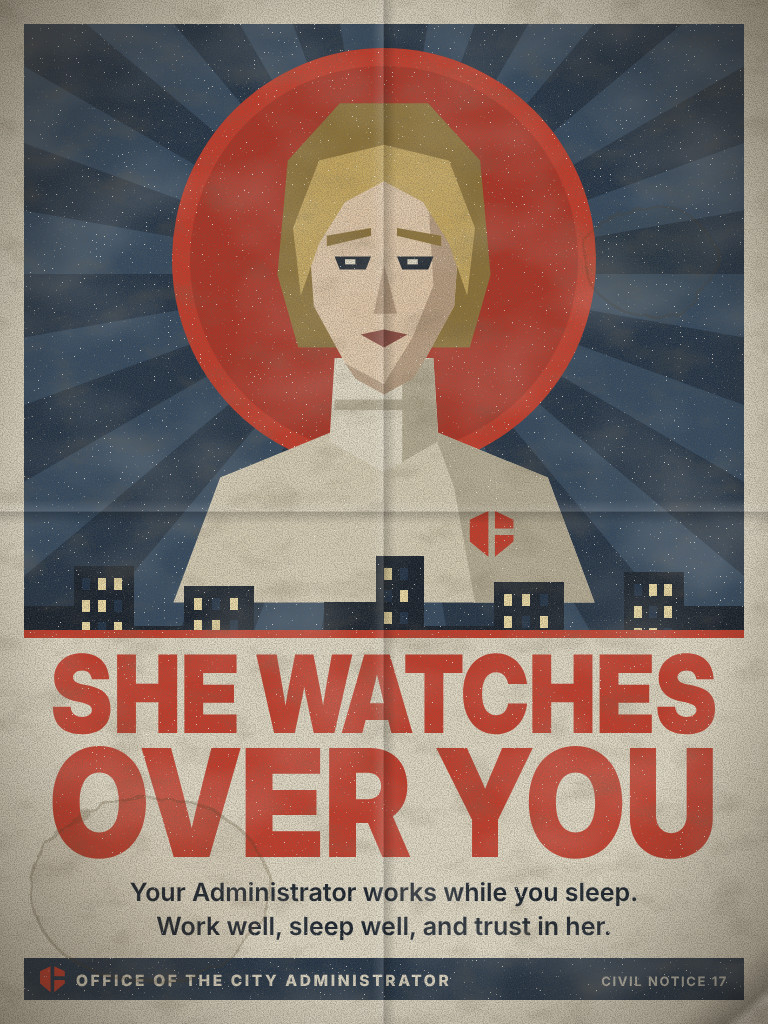
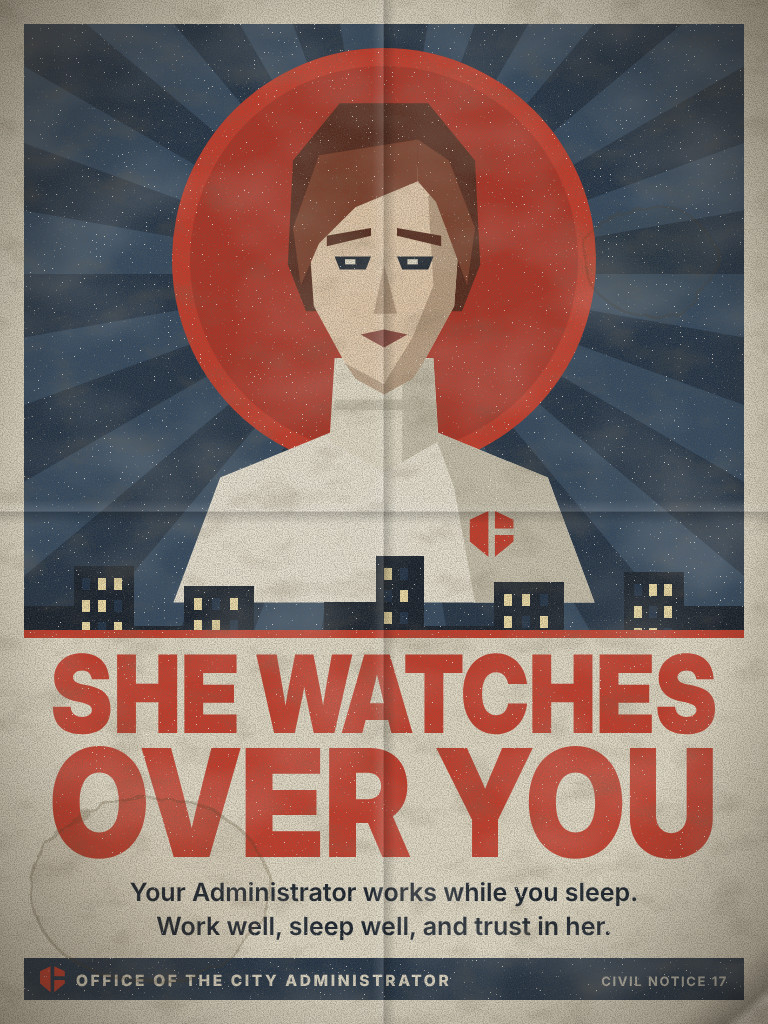
The Administrator on the posters: short auburn hair, white roll-neck
Redrawn from the owner's reference picture of Mossman, on the 'She watches
over you' poster and in the Commissary poster's portrait.

Claude-Session: https://claude.ai/code/session_01Y8SXQm2oyK1qYNFAgYMNJb

Changed region(s): [[0.3438, 0.0938, 0.6562, 0.3438], [0.25, 0.4062, 0.625, 0.5938]]

diff --git a/_dev/posters/lib.js b/_dev/posters/lib.js
@@ -132,17 +132,17 @@ function reader(tx, ty, s, tone, hat) {
   return G(`translate(${tx},${ty}) scale(${s})`, g);
 }
 
-// The City Administrator (after Judith Mossman as the owner's server shows her: blond hair
-// parted and pulled back, a light roll-neck sweater), front view, in a 170 x 214 box.
+// The City Administrator (after Judith Mossman as the owner's server shows her: short auburn hair
+// with a side part, tucked back, and a white roll-neck sweater), front view, in a 170 x 214 box.
 function adminBust(o = {}) {
-  const skin = '#dfc6a8', sh = '#b59a7e', hair = '#c4a65e', hairD = '#8c7238', knit = '#d3cab2', knitD = '#b3aa92', lip = o.lip || '#8a4a40';
+  const skin = '#dfc6a8', sh = '#b59a7e', hair = '#7b3f2b', hairD = '#552a1d', knit = '#e4dece', knitD = '#c3bca8', lip = o.lip || '#8a4a40';
   return [
-    P('M44,88 L48,44 L68,22 L102,22 L122,44 L126,88 L118,116 L52,116Z', hairD),
+    P('M48,84 L50,44 L68,22 L102,22 L120,44 L122,84 L115,102 L55,102Z', hairD),
     P('M4,214 L22,166 L66,148 L104,148 L148,166 L166,214Z', knit), P('M104,148 L148,166 L166,214 L120,214 L112,170Z', knitD),
     P('M66,120 L64,152 L85,164 L106,152 L104,120Z', C.paper), P('M66,136 L104,136 L104,140 L66,140Z', knitD), P('M92,122 L104,120 L106,152 L92,160Z', knitD),
     P('M56,72 L62,50 L85,42 L108,50 L114,72 L112,100 L100,122 L85,130 L70,122 L58,100Z', skin),
     P('M102,58 L108,50 L114,72 L112,100 L100,122 L85,130 L96,112 L104,92Z', sh),
-    P('M85,38 L60,44 L50,70 L53,96 L60,76 L70,60 L85,52Z', hair), P('M85,38 L110,44 L120,70 L117,96 L110,76 L100,60 L85,52Z', hair),
+    P('M98,36 L60,42 L50,70 L53,92 L60,76 L74,62 L98,52Z', hair), P('M98,36 L110,44 L120,70 L117,92 L111,76 L105,60 L98,52Z', hair),
     P('M63,73 L80,70 L80,73 L63,77Z', hairD), P('M90,70 L107,73 L107,77 L90,73Z', hairD),
     P('M66,81 L80,81 L78,86 L68,86Z', C.ink), P('M90,81 L104,81 L102,86 L92,86Z', C.ink),
     P('M70,82 L74,82 L74,84 L70,84Z', C.paper), P('M94,82 L98,82 L98,84 L94,84Z', C.paper),

diff --git a/POSTER_BRIEF.md b/POSTER_BRIEF.md
@@ -83,4 +83,4 @@ Six propaganda posters for Living City, a Half-Life 2 roleplay server. They hang
 
 ## Eleven more, hung by hand
 
-The Director of Propaganda hangs these with the poster roll (they never appear by themselves). Same style, same footer. File names: `work`, `loyalty`, `informants`, `contraband`, `radio`, `illness`, `infestation`, `housing`, `vortigaunt`, `recruit`, `administrator` (`.png` or `.jpg`). The Administrator is drawn after Judith Mossman: blond hair parted and pulled back, a light roll-neck sweater. Their words are in `gamemodes/livingcity/entities/entities/lc_civposter.lua`. All seventeen pictures are already drawn (`materials/livingcity/posters/`, made by `node _dev/posters/gen.js OUTDIR`).
+The Director of Propaganda hangs these with the poster roll (they never appear by themselves). Same style, same footer. File names: `work`, `loyalty`, `informants`, `contraband`, `radio`, `illness`, `infestation`, `housing`, `vortigaunt`, `recruit`, `administrator` (`.png` or `.jpg`). The Administrator is drawn after Judith Mossman: short auburn hair with a side part, a white roll-neck sweater. Their words are in `gamemodes/livingcity/entities/entities/lc_civposter.lua`. All seventeen pictures are already drawn (`materials/livingcity/posters/`, made by `node _dev/posters/gen.js OUTDIR`).
